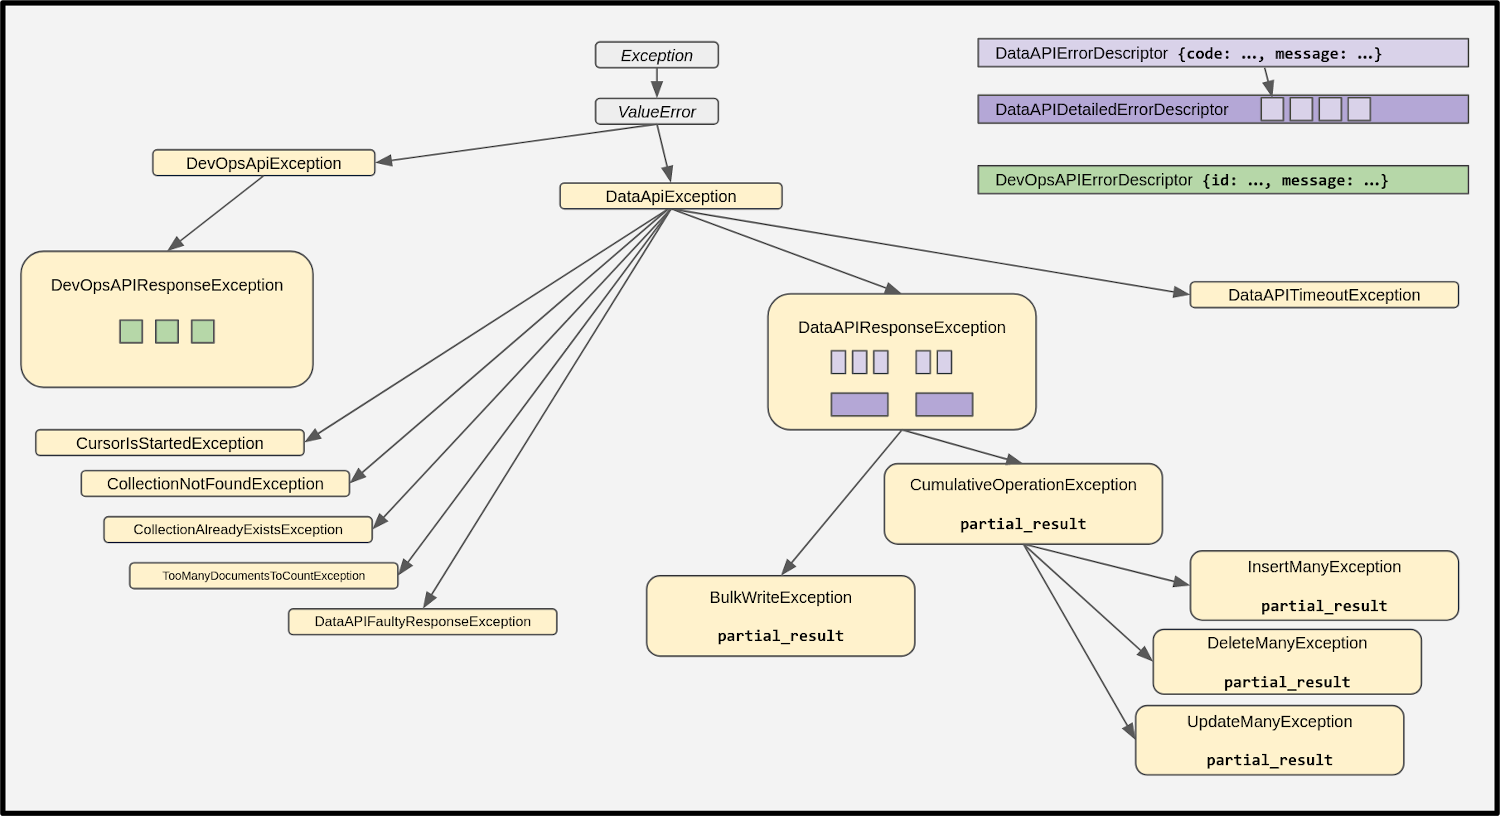
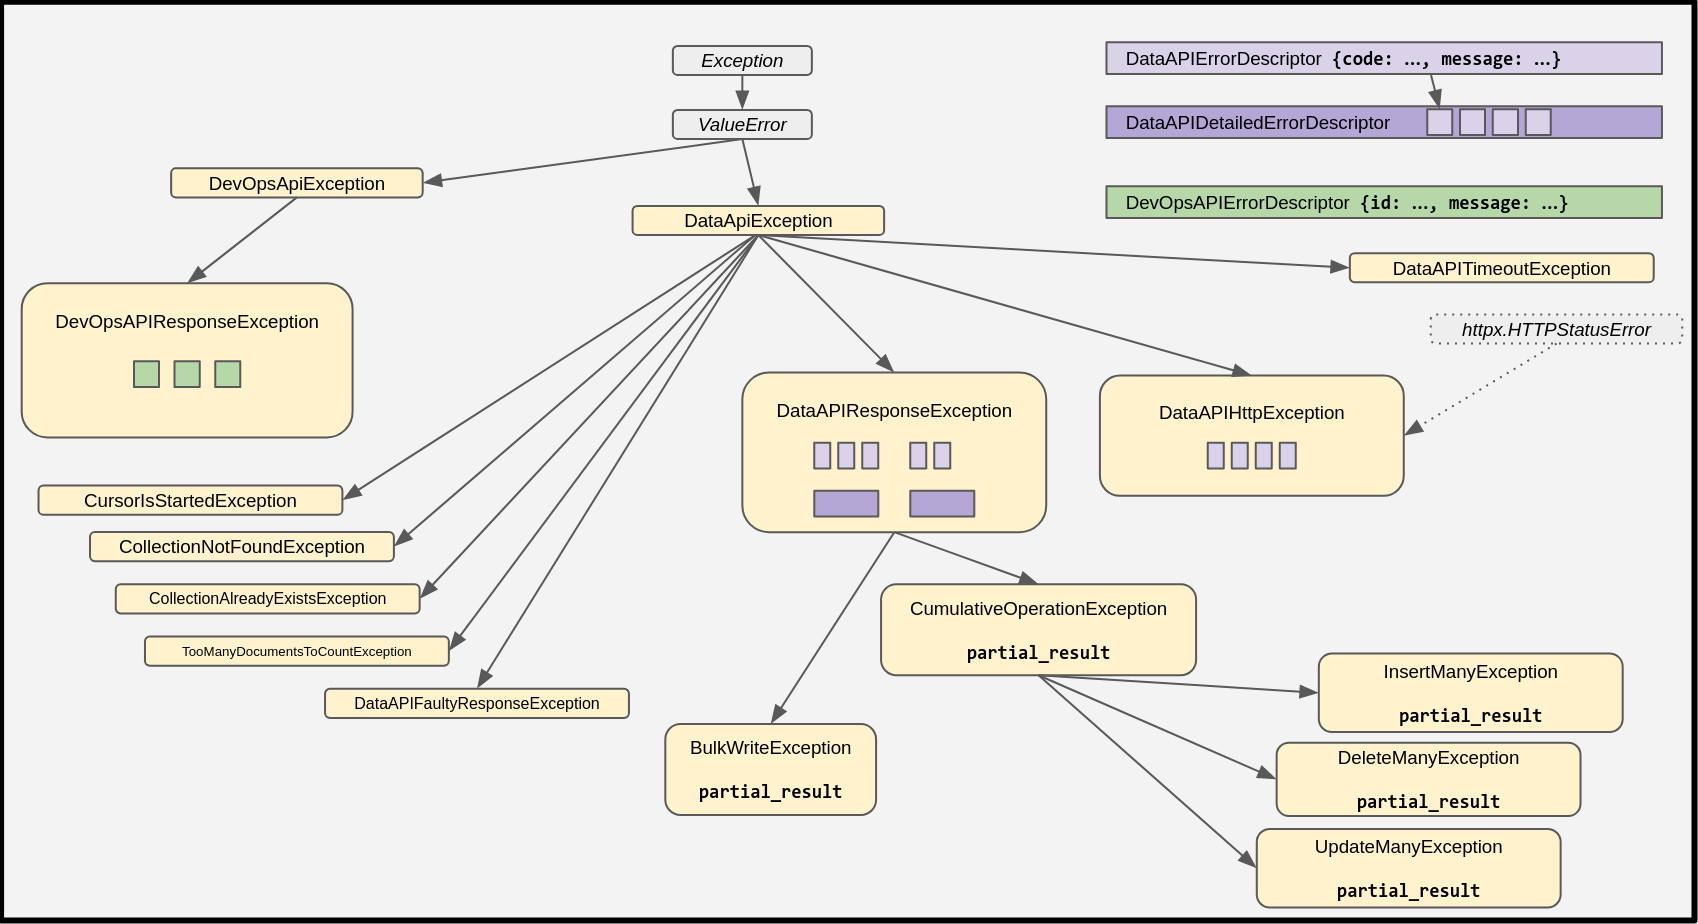
HTTP Status Errors: enrich-and-reraise (#309)
* DataAPIHttpException and its raising

* add DataAPIHttpException with extensive unit tests, diagram and readme

* refine type for error_descriptors (no optional)

diff --git a/tests/idiomatic/unit/test_exceptions.py b/tests/idiomatic/unit/test_exceptions.py
@@ -14,16 +14,226 @@
 
 from __future__ import annotations
 
-import pytest
+import json
 
+import pytest
+from httpx import HTTPStatusError, Response
+from pytest_httpserver import HTTPServer
+
+from astrapy import DataAPIClient
 from astrapy.exceptions import (
     DataAPIDetailedErrorDescriptor,
     DataAPIErrorDescriptor,
+    DataAPIHttpException,
     DataAPIResponseException,
     DeleteManyException,
     InsertManyException,
 )
 from astrapy.results import DeleteResult, InsertManyResult
+
+SAMPLE_API_MESSAGE = "da_message"
+SAMPLE_API_ERROR_OBJECT = {
+    "title": "da_title",
+    "errorCode": "DA_ERRORCODE",
+    "message": SAMPLE_API_MESSAGE,
+}
+FULL_RESPONSE_OF_500 = json.dumps({"errors": [SAMPLE_API_ERROR_OBJECT]})
+
+
+@pytest.mark.describe("test DataAPIHttpException")
+def test_dataapihttpexception() -> None:
+    """Test that regardless of how incorrect the input httpx error, nothing breaks."""
+    se0 = HTTPStatusError(message="httpx_message", request="req", response=None)  # type: ignore[arg-type]
+    se1 = HTTPStatusError(message="httpx_message", request="req", response="blah")  # type: ignore[arg-type]
+    se2 = HTTPStatusError(
+        message="httpx_message",
+        request="req",  # type: ignore[arg-type]
+        response=Response(status_code=500, text="blah"),
+    )
+    se3 = HTTPStatusError(
+        message="httpx_message",
+        request="req",  # type: ignore[arg-type]
+        response=Response(status_code=500, text='{"blabla": 1}'),
+    )
+    se4 = HTTPStatusError(
+        message="httpx_message",
+        request="req",  # type: ignore[arg-type]
+        response=Response(status_code=500, text='{"errors": []}'),
+    )
+    se5 = HTTPStatusError(
+        message="httpx_message",
+        request="req",  # type: ignore[arg-type]
+        response=Response(
+            status_code=500,
+            text=FULL_RESPONSE_OF_500,
+        ),
+    )
+
+    de0 = DataAPIHttpException.from_httpx_error(se0)
+    de1 = DataAPIHttpException.from_httpx_error(se1)
+    de2 = DataAPIHttpException.from_httpx_error(se2)
+    de3 = DataAPIHttpException.from_httpx_error(se3)
+    de4 = DataAPIHttpException.from_httpx_error(se4)
+    de5 = DataAPIHttpException.from_httpx_error(se5)
+
+    repr(de0)
+    repr(de1)
+    repr(de2)
+    repr(de3)
+    repr(de4)
+    repr(de5)
+    str(de0)
+    str(de1)
+    str(de2)
+    str(de3)
+    str(de4)
+    assert SAMPLE_API_MESSAGE in str(de5)
+
+
+@pytest.mark.describe("test DataAPIHttpException raising 500 from a mock server, sync")
+def test_dataapihttpexception_raising_500_sync(httpserver: HTTPServer) -> None:
+    """
+    testing that:
+        - the request gets sent
+        - the correct exception is raised, with the expected members:
+            - X its request and response fields are those of the httpx object
+            - its DataAPIHttpException fields are set
+        - it is caught with an httpx "except" clause all right
+    """
+    root_endpoint = httpserver.url_for("/")
+    client = DataAPIClient(environment="other")
+    database = client.get_database(root_endpoint, namespace="xnamespace")
+    collection = database.get_collection("xcoll")
+    expected_url = "/v1/xnamespace/xcoll"
+    httpserver.expect_request(
+        expected_url,
+        method="POST",
+    ).respond_with_data(
+        FULL_RESPONSE_OF_500,
+        status=500,
+    )
+    exc = None
+    try:
+        collection.find_one()
+    except HTTPStatusError as e:
+        exc = e
+
+    assert isinstance(exc, DataAPIHttpException)
+    httpx_payload = json.loads(exc.request.content.decode())
+    assert "find" in httpx_payload
+    assert SAMPLE_API_MESSAGE in exc.response.text
+    assert exc.error_descriptors == [DataAPIErrorDescriptor(SAMPLE_API_ERROR_OBJECT)]
+    assert SAMPLE_API_MESSAGE in str(exc)
+
+
+@pytest.mark.describe("test DataAPIHttpException raising 404 from a mock server, sync")
+def test_dataapihttpexception_raising_404_sync(httpserver: HTTPServer) -> None:
+    """
+    testing that:
+        - the request gets sent
+        - the correct exception is raised, with the expected members:
+            - X its request and response fields are those of the httpx object
+            - its DataAPIHttpException fields are set
+        - it is caught with an httpx "except" clause all right
+    """
+    root_endpoint = httpserver.url_for("/")
+    client = DataAPIClient(environment="other")
+    database = client.get_database(root_endpoint, namespace="xnamespace")
+    collection = database.get_collection("xcoll")
+    expected_url = "/v1/xnamespace/xcoll"
+    httpserver.expect_request(
+        expected_url,
+        method="POST",
+    ).respond_with_data(
+        "blah",
+        status=404,
+    )
+    exc = None
+    try:
+        collection.find_one()
+    except HTTPStatusError as e:
+        exc = e
+
+    assert isinstance(exc, DataAPIHttpException)
+    httpx_payload = json.loads(exc.request.content.decode())
+    assert "find" in httpx_payload
+    assert "blah" in exc.response.text
+    assert exc.error_descriptors == []
+    # not parsable into a DataAPIErrorDescriptor -> not in the error str repr
+    assert "blah" not in str(exc)
+
+
+@pytest.mark.describe("test DataAPIHttpException raising 500 from a mock server, async")
+async def test_dataapihttpexception_raising_500_async(httpserver: HTTPServer) -> None:
+    """
+    testing that:
+        - the request gets sent
+        - the correct exception is raised, with the expected members:
+            - X its request and response fields are those of the httpx object
+            - its DataAPIHttpException fields are set
+        - it is caught with an httpx "except" clause all right
+    """
+    root_endpoint = httpserver.url_for("/")
+    client = DataAPIClient(environment="other")
+    adatabase = client.get_async_database(root_endpoint, namespace="xnamespace")
+    acollection = await adatabase.get_collection("xcoll")
+    expected_url = "/v1/xnamespace/xcoll"
+    httpserver.expect_request(
+        expected_url,
+        method="POST",
+    ).respond_with_data(
+        FULL_RESPONSE_OF_500,
+        status=500,
+    )
+    exc = None
+    try:
+        await acollection.find_one()
+    except HTTPStatusError as e:
+        exc = e
+
+    assert isinstance(exc, DataAPIHttpException)
+    httpx_payload = json.loads(exc.request.content.decode())
+    assert "find" in httpx_payload
+    assert SAMPLE_API_MESSAGE in exc.response.text
+    assert exc.error_descriptors == [DataAPIErrorDescriptor(SAMPLE_API_ERROR_OBJECT)]
+    assert SAMPLE_API_MESSAGE in str(exc)
+
+
+@pytest.mark.describe("test DataAPIHttpException raising 404 from a mock server, async")
+async def test_dataapihttpexception_raising_404_async(httpserver: HTTPServer) -> None:
+    """
+    testing that:
+        - the request gets sent
+        - the correct exception is raised, with the expected members:
+            - X its request and response fields are those of the httpx object
+            - its DataAPIHttpException fields are set
+        - it is caught with an httpx "except" clause all right
+    """
+    root_endpoint = httpserver.url_for("/")
+    client = DataAPIClient(environment="other")
+    adatabase = client.get_async_database(root_endpoint, namespace="xnamespace")
+    acollection = await adatabase.get_collection("xcoll")
+    expected_url = "/v1/xnamespace/xcoll"
+    httpserver.expect_request(
+        expected_url,
+        method="POST",
+    ).respond_with_data(
+        "blah",
+        status=404,
+    )
+    exc = None
+    try:
+        await acollection.find_one()
+    except HTTPStatusError as e:
+        exc = e
+
+    assert isinstance(exc, DataAPIHttpException)
+    httpx_payload = json.loads(exc.request.content.decode())
+    assert "find" in httpx_payload
+    assert "blah" in exc.response.text
+    assert exc.error_descriptors == []
+    # not parsable into a DataAPIErrorDescriptor -> not in the error str repr
+    assert "blah" not in str(exc)
 
 
 @pytest.mark.describe("test DataAPIResponseException")

diff --git a/astrapy/exceptions.py b/astrapy/exceptions.py
@@ -117,8 +117,8 @@ class DevOpsAPIResponseException(DevOpsAPIException):
 
 @dataclass
 class DataAPIErrorDescriptor:
-    """list of
-    Ans object representing a single error returned from the Data API,
+    """
+    An object representing a single error returned from the Data API,
     typically with an error code and a text message.
     An API request would return with an HTTP 200 success error code,
     but contain a nonzero amount of these.
@@ -209,6 +209,77 @@ class DataAPIException(ValueError):
     """
 
     pass
+
+
+@dataclass
+class DataAPIHttpException(DataAPIException, httpx.HTTPStatusError):
+    """
+    A request to the Data API resulted in an HTTP 4xx or 5xx response.
+
+    In most cases this comes with additional information: the purpose
+    of this class is to present such information in a structured way,
+    akin to what happens for the DataAPIResponseException, while
+    still raising (a subclass of) `httpx.HTTPStatusError`.
+
+    Attributes:
+        text: a text message about the exception.
+        error_descriptors: a list of all DataAPIErrorDescriptor objects
+            found in the response.
+    """
+
+    text: Optional[str]
+    error_descriptors: List[DataAPIErrorDescriptor]
+
+    def __init__(
+        self,
+        text: Optional[str],
+        *,
+        httpx_error: httpx.HTTPStatusError,
+        error_descriptors: List[DataAPIErrorDescriptor],
+    ) -> None:
+        DataAPIException.__init__(self, text)
+        httpx.HTTPStatusError.__init__(
+            self,
+            message=str(httpx_error),
+            request=httpx_error.request,
+            response=httpx_error.response,
+        )
+        self.text = text
+        self.httpx_error = httpx_error
+        self.error_descriptors = error_descriptors
+
+    def __str__(self) -> str:
+        return self.text or str(self.httpx_error)
+
+    @classmethod
+    def from_httpx_error(
+        cls,
+        httpx_error: httpx.HTTPStatusError,
+        **kwargs: Any,
+    ) -> DataAPIHttpException:
+        """Parse a httpx status error into this exception."""
+
+        raw_response: Dict[str, Any]
+        # the attempt to extract a response structure cannot afford failure.
+        try:
+            raw_response = httpx_error.response.json()
+        except Exception:
+            raw_response = {}
+        error_descriptors = [
+            DataAPIErrorDescriptor(error_dict)
+            for error_dict in raw_response.get("errors") or []
+        ]
+        if error_descriptors:
+            text = f"{error_descriptors[0].message}. {str(httpx_error)}"
+        else:
+            text = str(httpx_error)
+
+        return cls(
+            text=text,
+            httpx_error=httpx_error,
+            error_descriptors=error_descriptors,
+            **kwargs,
+        )
 
 
 @dataclass
@@ -694,6 +765,8 @@ def recast_method_sync(method: Callable[..., Any]) -> Callable[..., Any]:
             raise DataAPIResponseException.from_response(
                 command=exc.payload, raw_response=exc.response.json()
             )
+        except httpx.HTTPStatusError as exc:
+            raise DataAPIHttpException.from_httpx_error(exc)
         except httpx.TimeoutException as texc:
             raise to_dataapi_timeout_exception(texc)
 
@@ -717,6 +790,8 @@ def recast_method_async(
             raise DataAPIResponseException.from_response(
                 command=exc.payload, raw_response=exc.response.json()
             )
+        except httpx.HTTPStatusError as exc:
+            raise DataAPIHttpException.from_httpx_error(exc)
         except httpx.TimeoutException as texc:
             raise to_dataapi_timeout_exception(texc)
 

diff --git a/tests/idiomatic/unit/test_imports.py b/tests/idiomatic/unit/test_imports.py
@@ -97,6 +97,7 @@ def test_imports() -> None:
         DataAPIErrorDescriptor,
         DataAPIException,
         DataAPIFaultyResponseException,
+        DataAPIHttpException,
         DataAPIResponseException,
         DataAPITimeoutException,
         DeleteManyException,

diff --git a/README.md b/README.md
@@ -473,24 +473,25 @@ Exceptions:
 
 ```python
 from astrapy.exceptions import (
+    BulkWriteException,
+    CollectionAlreadyExistsException,
+    CollectionNotFoundException,
+    CumulativeOperationException,
+    CursorIsStartedException,
+    DataAPIDetailedErrorDescriptor,
+    DataAPIErrorDescriptor,
+    DataAPIException,
+    DataAPIFaultyResponseException,
+    DataAPIHttpException,
+    DataAPIResponseException,
+    DataAPITimeoutException,
+    DeleteManyException,
+    DevOpsAPIErrorDescriptor,
     DevOpsAPIException,
     DevOpsAPIResponseException,
-    DevOpsAPIErrorDescriptor,
-    DataAPIErrorDescriptor,
-    DataAPIDetailedErrorDescriptor,
-    DataAPIException,
-    DataAPITimeoutException,
-    CursorIsStartedException,
-    CollectionNotFoundException,
-    CollectionAlreadyExistsException,
-    TooManyDocumentsToCountException,
-    DataAPIFaultyResponseException,
-    DataAPIResponseException,
-    CumulativeOperationException,
     InsertManyException,
-    DeleteManyException,
+    TooManyDocumentsToCountException,
     UpdateManyException,
-    BulkWriteException,
 )
 ```
 
